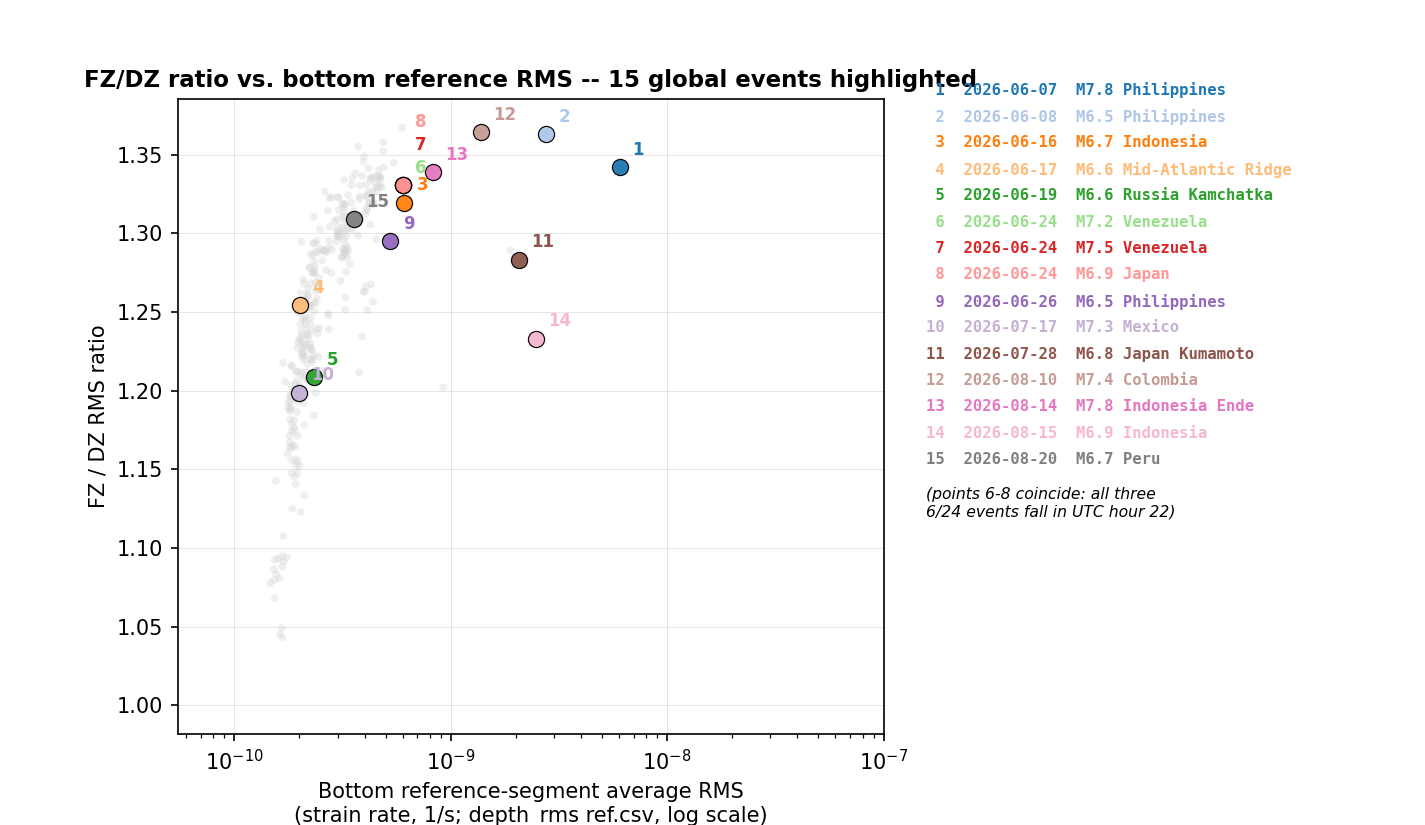
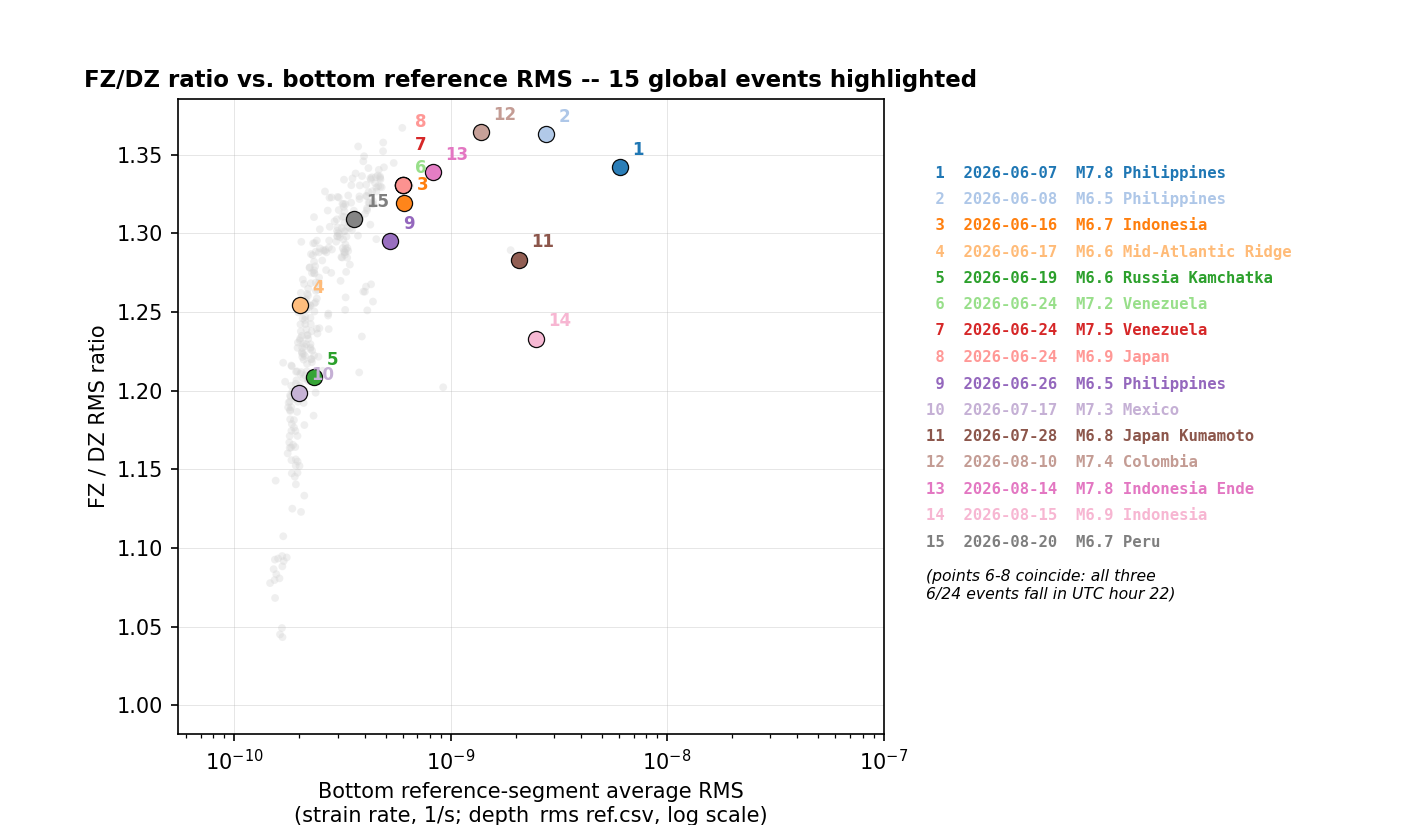
Move event legend down to stop overlapping the plot title

Changed region(s): [[0.6484, 0.0909, 0.8954, 0.6667], [0.6484, 0.697, 0.8337, 0.7273]]

diff --git a/scripts/plot_zone_vs_ref_scatter_events.py b/scripts/plot_zone_vs_ref_scatter_events.py
@@ -86,7 +86,7 @@ def scatter_with_events(bg, ev, ycol, ylabel, title, out_png, log_y=False, xlim_
     ax.grid(lw=0.3, alpha=0.5)
 
     fig.subplots_adjust(right=0.62)
-    y0 = 0.90
+    y0 = 0.80
     for _, r in ev.iterrows():
         color = EVENT_COLORS[int(r["n"]) - 1]
         line = f"{int(r['n']):2d}  {r['date'][:4]}-{r['date'][4:6]}-{r['date'][6:]}  {r['label']}"
